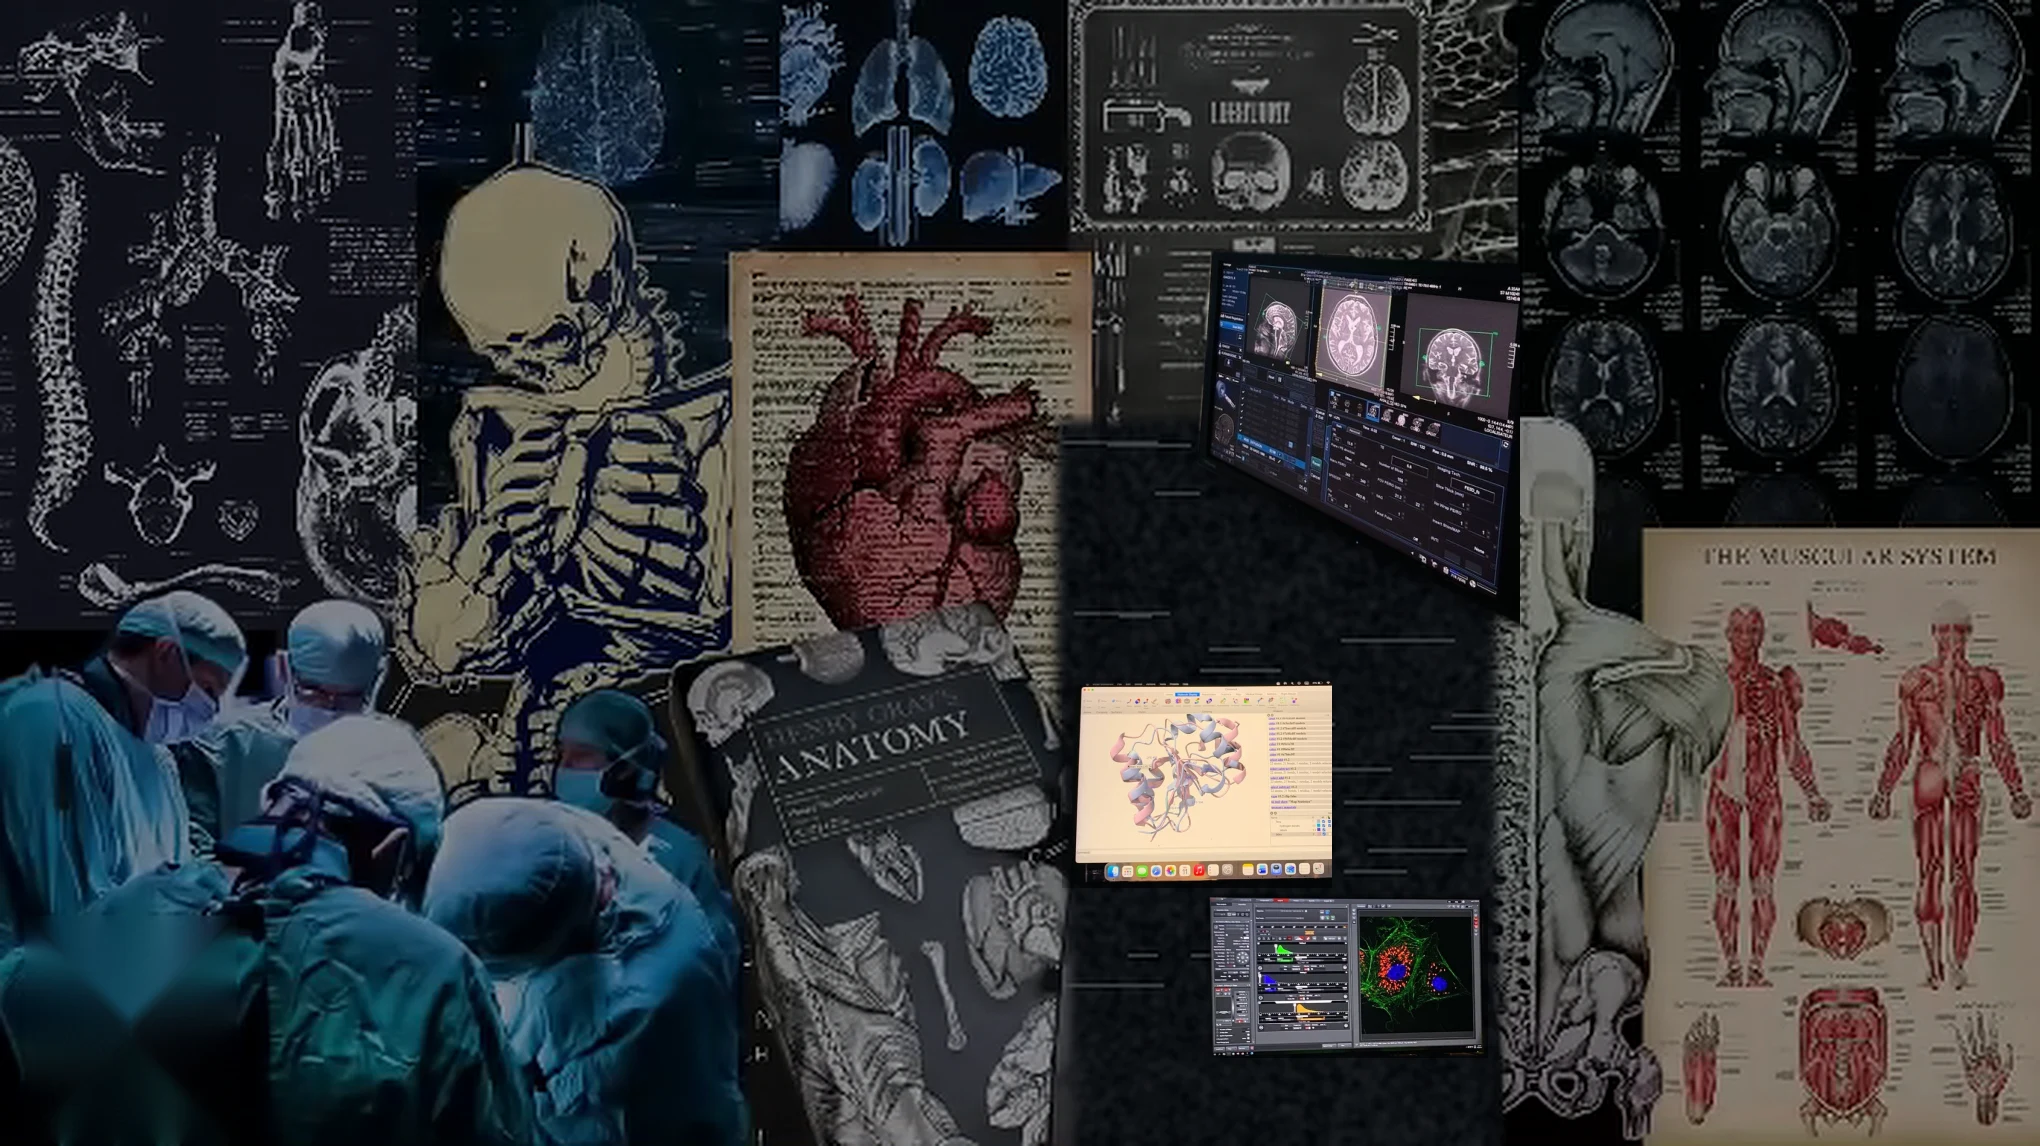
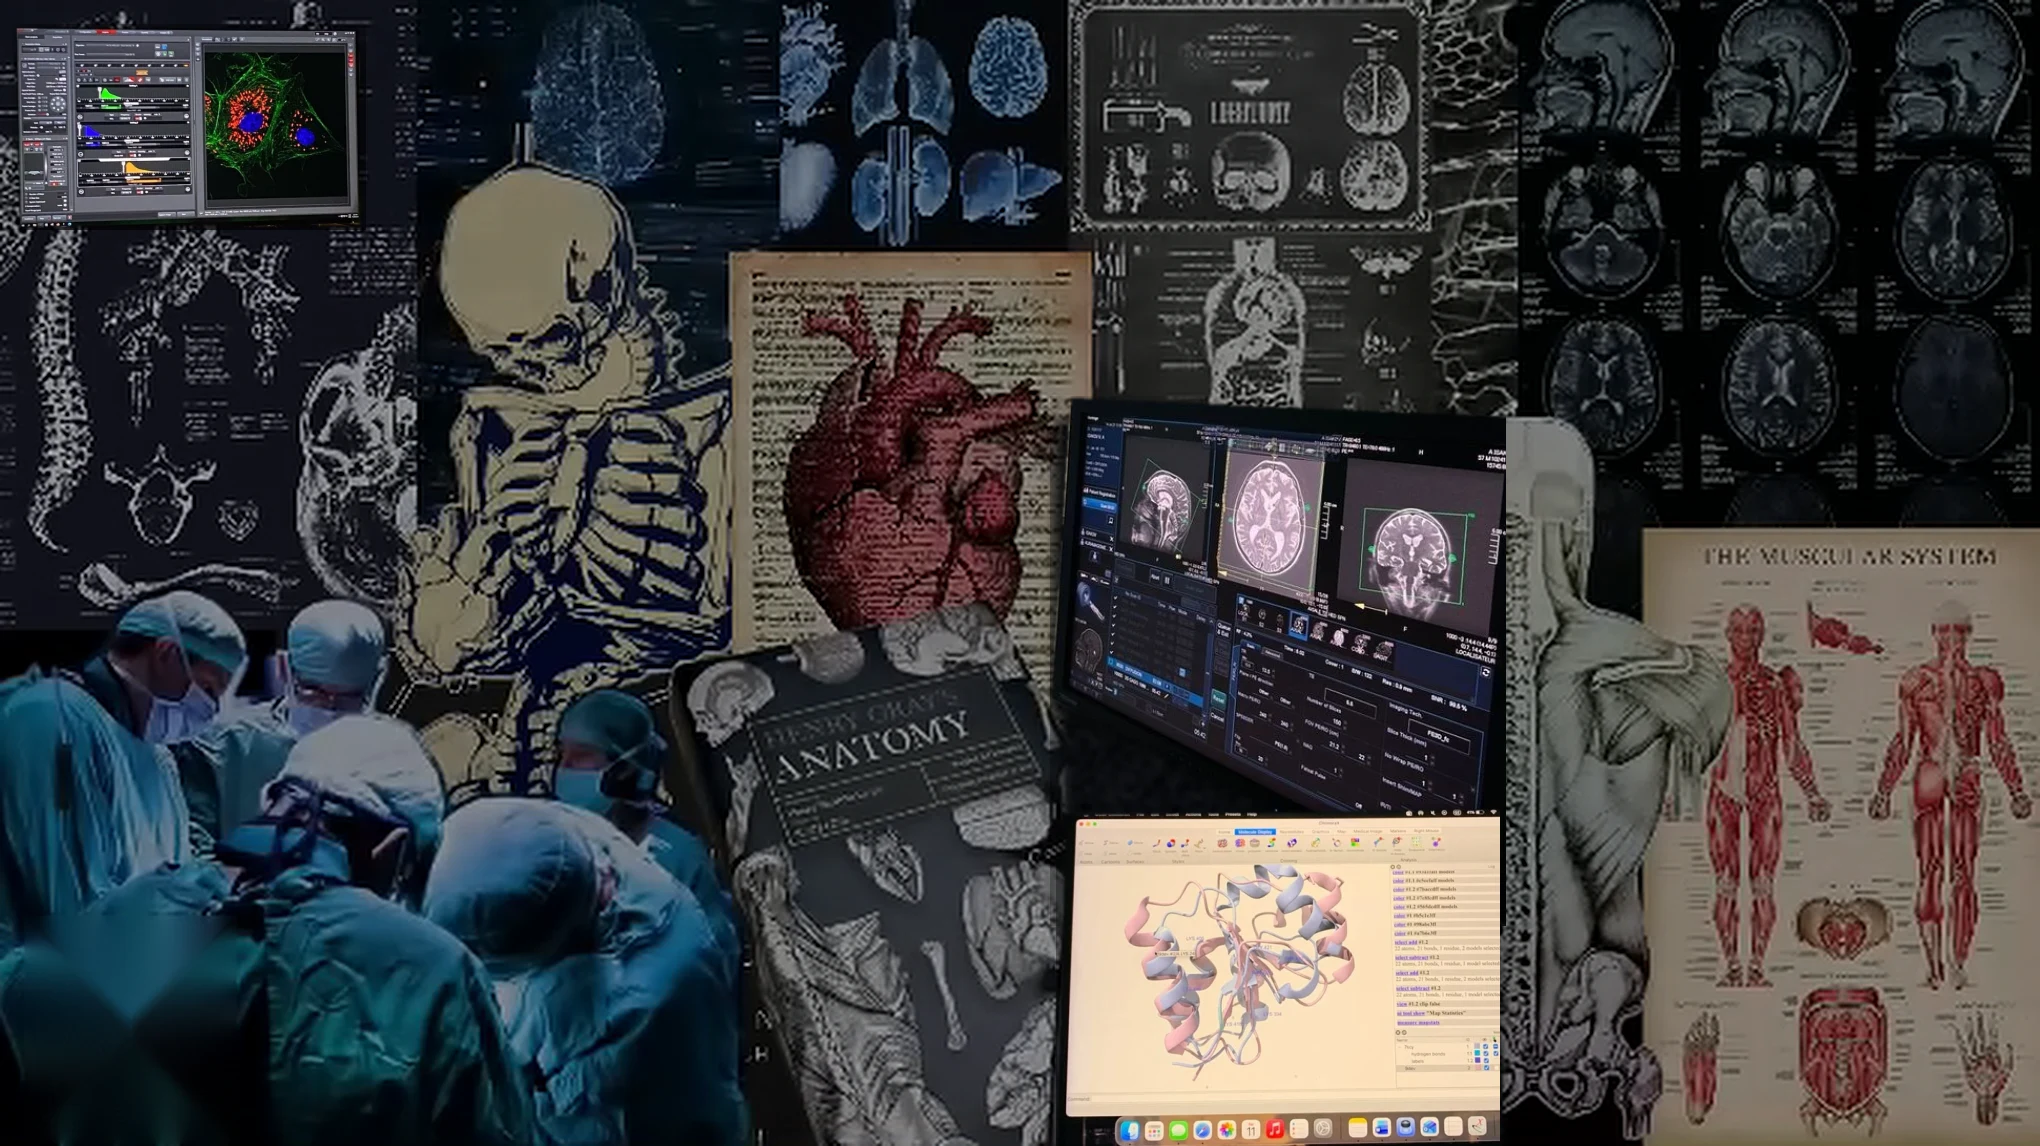
BIO collage: scatter photo cutouts, fill the middle gap
Claude-Session: https://claude.ai/code/session_01BvLFcroQbFc8VUSf4YjDBE

Changed region(s): [[0.4941, 0.2138, 0.7721, 1.0], [0.0, 0.0, 0.1853, 0.2138]]

diff --git a/web/components/biocollage/BioCollage.tsx b/web/components/biocollage/BioCollage.tsx
@@ -21,9 +21,9 @@ const REGIONS: [string, number[]][] = [
   ["heart", [243, 86, 366, 84, 366, 248, 243, 250]],
   ["book", [222, 250, 300, 215, 360, 228, 355, 340, 310, 382, 245, 382, 224, 300]],
   ["man", [490, 140, 530, 138, 562, 200, 572, 300, 548, 382, 498, 382, 478, 250]],
-  ["monitor", [403, 83, 506, 88, 506, 208, 399, 154]],
-  ["chimera", [359, 228, 444, 227, 444, 294, 357, 295]],
-  ["scope", [403, 299, 494, 299, 494, 351, 404, 352]],
+  ["monitor", [357, 133, 502, 139, 502, 309, 351, 233]],
+  ["chimera", [355, 272, 500, 270, 500, 381, 352, 381]],
+  ["scope", [5, 9, 119, 10, 120, 75, 7, 75]],
 ];
 const SRC = "/bio/collage.webp";
 
